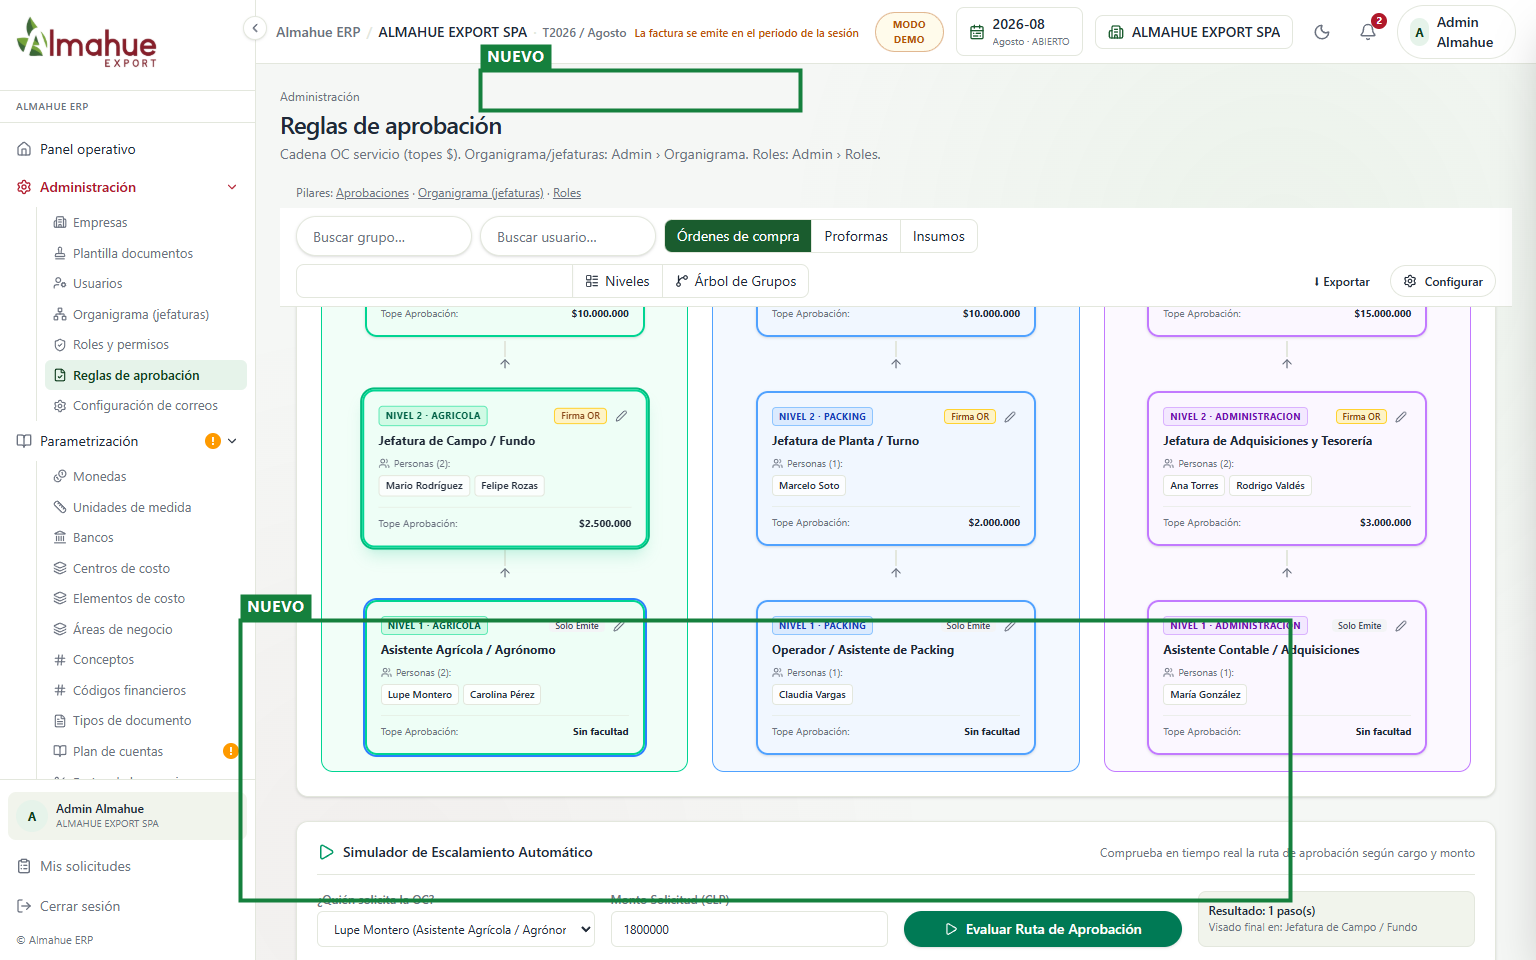
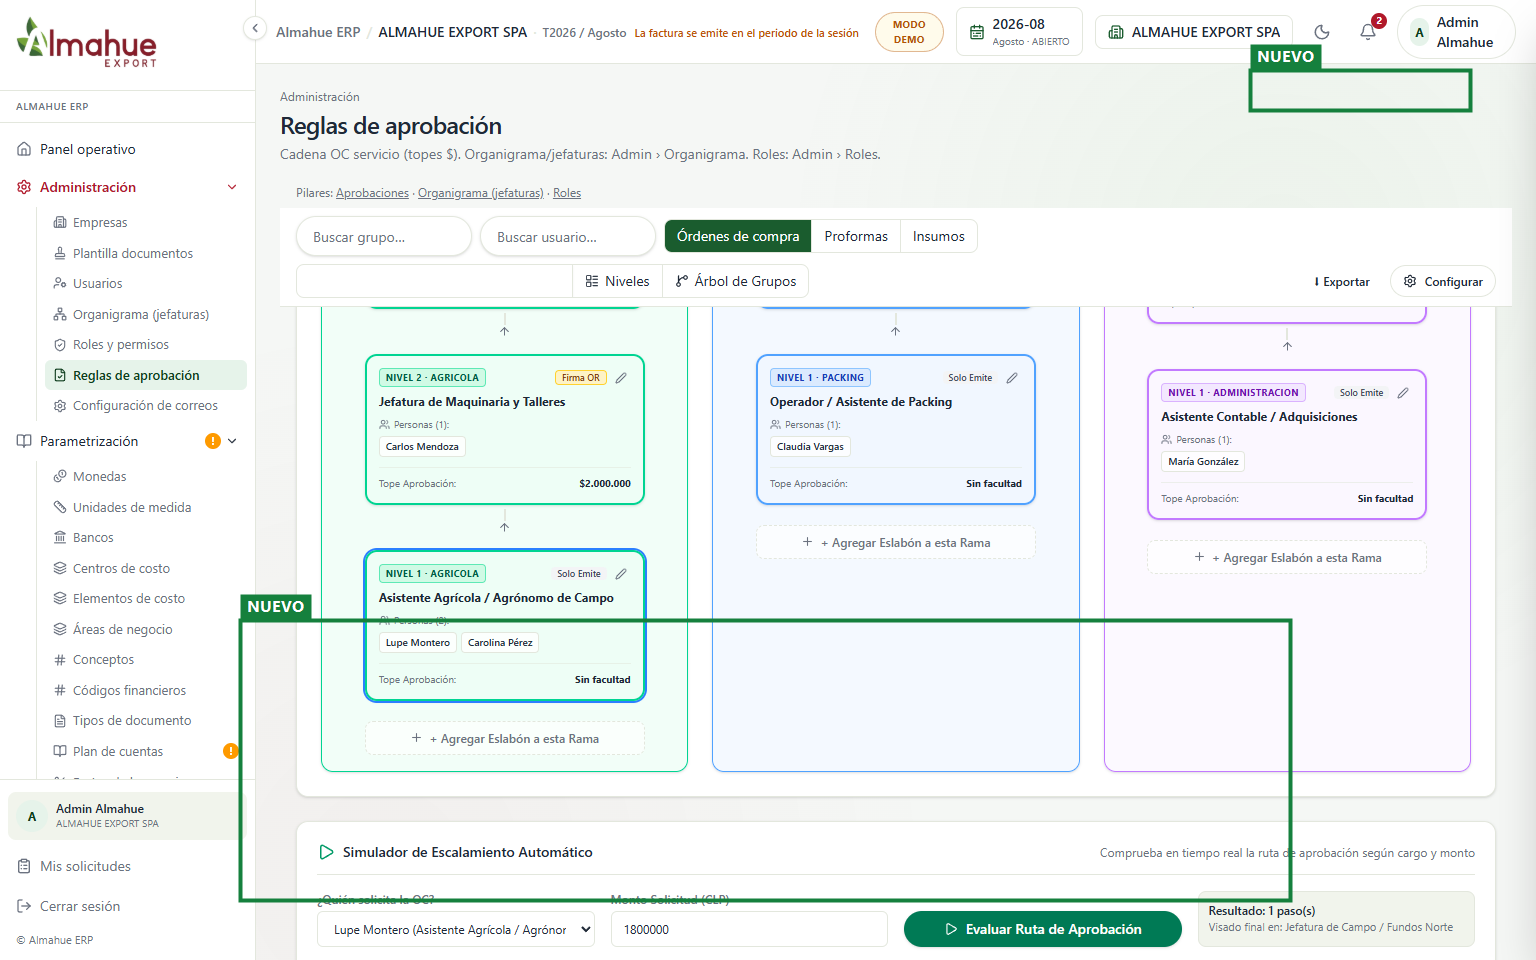
docs: visores actualizados con eslabones configurables, modal de edicion y multiples jefaturas

diff --git a/docs/sesiones/acuerdos-sala-2026-11-06/comparacion.html b/docs/sesiones/acuerdos-sala-2026-11-06/comparacion.html
@@ -159,7 +159,7 @@
   </section>
 
   <section>
-    <h2>9. Admin - Esquema de Ramas (Roles & Reglas de Aprobación Unificadas)</h2>
+    <h2>9. Admin - Esquema de Ramas (Múltiples Jefaturas Operativas en Modo Demo)</h2>
     <div class="pair">
       <figure class="antes">
         <figcaption>Antes</figcaption>
@@ -167,10 +167,10 @@
       </figure>
       <figure class="despues">
         <figcaption>Después</figcaption>
-        <img src="despues-esquema-ramas-aprobacion-marcado.png" alt="Esquema de Ramas con Gerencia General en la raíz, regla OR en jefaturas y simulador en vivo" />
+        <img src="despues-esquema-ramas-aprobacion-marcado.png" alt="Esquema de Ramas con Gerencia General en la raíz, múltiples jefaturas operativas y simulador en vivo" />
       </figure>
     </div>
-    <p class="nota">Se unifica la administración de roles y aprobaciones por ramas (Agrícola, Packing, Administración) eliminando la necesidad de duplicar grupos. La Gerencia General está en el vértice común con tope ilimitado; las jefaturas de faena cuentan con regla de firma OR para agilizar compras sin trabas; y el simulador interactivo evalúa y resalta en vivo la ruta de escalamiento según monto.</p>
+    <p class="nota">Se unifica la administración de roles y aprobaciones por ramas (Agrícola, Packing, Administración) eliminando la necesidad de duplicar grupos. La Gerencia General está en el vértice común con tope ilimitado; se incorporan múltiples jefaturas de ejemplo en modo demo (Jefaturas Fundos Norte y Sur, Riego y Fertilización, Maquinaria y Talleres, Recepción y Calidad, Planta y Embalaje, Frigorífico, Adquisiciones, Contabilidad y RRHH/Contratistas) con regla de firma OR para agilizar compras sin trabas; y el simulador interactivo evalúa y resalta en vivo la ruta de escalamiento según monto.</p>
   </section>
 
   <section>
@@ -186,6 +186,21 @@
       </figure>
     </div>
     <p class="nota">La grilla de Usuarios incorpora la columna de Cargo en Árbol Jerárquico. En el formulario de alta, el usuario simplemente selecciona su Cargo de la Rama (ej. Jefatura de Campo · Nivel 2), heredando automáticamente sus topes y línea de mando sin requerir configuración manual de grupos.</p>
+  </section>
+
+  <section>
+    <h2>11. Admin - Eslabones Configurables (Nombres, Padres y Personas Editables)</h2>
+    <div class="pair">
+      <figure class="antes">
+        <figcaption>Antes</figcaption>
+        <img src="antes-eslabon-configurar-modal.png" alt="Nombres predefinidos rígidos sin personalización por el cliente" />
+      </figure>
+      <figure class="despues">
+        <figcaption>Después</figcaption>
+        <img src="despues-eslabon-configurar-modal-marcado.png" alt="Modal de configuración con nombre libre, código, selección de eslabón superior y gestión de personas" />
+      </figure>
+    </div>
+    <p class="nota">Los nombres de cada eslabón y cargo no son predefinidos sino 100% configurables por el usuario. El modal permite editar el nombre exacto de la jefatura, código, nivel, a qué eslabón superior escala (padre), topes multimoneda, regla OR/AND y la asignación interactiva de personas al cargo.</p>
   </section>
 
   <div class="visor" id="visor" hidden>

diff --git a/docs/sesiones/acuerdos-sala-2026-11-06/recorrido.html b/docs/sesiones/acuerdos-sala-2026-11-06/recorrido.html
@@ -157,6 +157,17 @@
           { x: 48.0, y: 35.0, t: "Cargo Jerárquico", d: "Columna que muestra el cargo, nivel y topes de cada usuario en el árbol. Elimina la necesidad de crear grupos artificiales repetitivos." },
           { x: 88.0, y: 8.5, t: "Nuevo Usuario", d: "Al crear o editar un usuario se selecciona su Rama y Cargo, heredando automáticamente su posición en el árbol y su escala de aprobación." }
         ]
+      },
+      {
+        mod: "Admin", cls: "param",
+        title: "11. Eslabones Configurables",
+        img: "despues-eslabon-configurar-modal.png",
+        alt: "Modal para configurar nombres, topes y personas de cada eslabón",
+        pins: [
+          { x: 50.0, y: 25.0, t: "Nombre 100% Configurable", d: "El usuario puede escribir el nombre exacto de la jefatura o cargo que utiliza su empresa (ej. Jefatura de Riego, Jefatura Fundos Norte, etc.)." },
+          { x: 62.0, y: 37.0, t: "Escalamiento a Eslabón Superior", d: "Selector dinámico para definir a qué cargo superior de la jerarquía escala automáticamente este eslabón cuando se supera su límite." },
+          { x: 50.0, y: 64.0, t: "Asignación Dinámica de Personas", d: "Permite asociar y desasociar personas directamente al eslabón con regla de firma OR para no trabar la faena agrícola." }
+        ]
       }
     ];
 

diff --git a/docs/requerimientos/acuerdos-por-dia/2026-11-06-acuerdos.md b/docs/requerimientos/acuerdos-por-dia/2026-11-06-acuerdos.md
@@ -19,9 +19,14 @@
 - Bloqueo de emisión en OC de Compras si el monto excede el tope máximo del último aprobador de la escala.
 - Unificación jerárquica de roles, usuarios y reglas de aprobación en un esquema de árbol/ramas (acuerdo documento Word + audio María Jesús del 05/11):
   - Eliminación de los "20 grupos artificiales" repetitivos.
+  - **Nombres de eslabones 100% configurables** (no predefinidos): el usuario puede crear, editar el nombre exacto de la jefatura, código, nivel, definir a qué eslabón superior escala y asignar personas libremente.
+  - **Múltiples jefaturas de ejemplo en modo demo**:
+    - Rama Agrícola: Jefatura Fundos Norte (Mario Rodríguez), Jefatura Fundos Sur (Felipe Rozas), Jefatura de Riego y Fertilización (Gonzalo Castro), Jefatura de Maquinaria y Talleres (Carlos Mendoza).
+    - Rama Packing: Jefatura de Planta y Embalaje (Marcelo Soto), Jefatura de Recepción y Calidad (Andrea Morales), Jefatura de Frigorífico y Despacho (Patricio Vera).
+    - Rama Administración: Jefatura de Adquisiciones y Abastecimiento (Ana Torres), Jefatura de Contabilidad y Tributaria (Rodrigo Valdés), Jefatura de Recursos Humanos y Contratistas (Esteban Silva).
   - Vértice común en la raíz: Gerencia General (Don Sergio Donoso / Nicolás Donoso) con facultad ilimitada.
   - Ramas principales de área: Rama Agrícola (Agustín Vial), Rama Packing (Roberto Gómez), Rama Administración y Finanzas (María Jesús Vial).
-  - Jefaturas operativas con regla de aprobación `OR`: basta la firma de cualquiera (ej. Mario Rodríguez o Felipe Rozas en Jefatura de Campo) para no trabar la labor agrícola.
+  - Jefaturas operativas con regla de aprobación `OR`: basta la firma de cualquiera para no trabar la labor agrícola.
   - Escalamiento automático de montos hacia arriba hasta el nivel que cubra el requerimiento, concluyendo la aprobación sin elevar innecesariamente a Gerencia General.
   - Integración en alta de usuarios (`UsuariosPage.tsx`): selector de Rama y Cargo Jerárquico con herencia automática de topes y línea de mando.
   - Vista gráfica interactiva "Esquema de Ramas (Roles & Cargos)" en `/admin/aprobaciones` y en `/admin/organigrama` con simulador de escalamiento en vivo.
